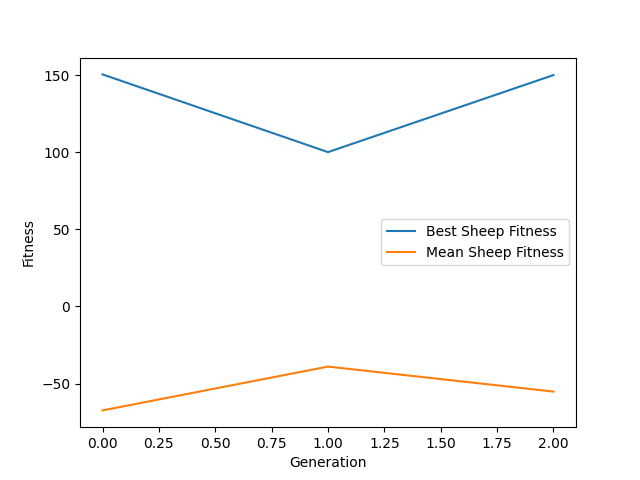
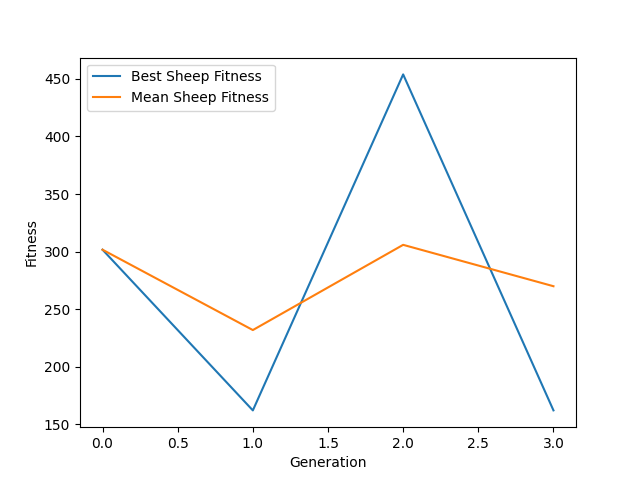
simulation edits
- config tweaks
- fitness function
- grass growth
- child spawn energy

diff --git a/src/wolf.py b/src/wolf.py
@@ -13,23 +13,36 @@ class Wolf(Entity):
         super().__init__(env, intial_position, sprite_manager.male_wolf if self.gender else sprite_manager.female_wolf, nn)
         self.type = Types.WOLF
         self.speed = FPS
+        self.sheep_eaten = 0
     
     def handle_collision(self, t: Types, g: int):
         if t == Types.SHEEP:
             self.env.sound_manager.play_enemy_collision()
             self.energy = 100.0
+            self.sheep_eaten += 1
         else:
             self.env.sound_manager.play_friend_collision()
-            if self.gender != g and self.energy >= (REPRODUCTION_ENERGY_REQUIREMENT * MAX_ENERGY):
+            if self.gender != g and self.energy >= (WOLF_REPRODUCTION_REQUIREMENT * MAX_ENERGY):
                 self.env.sound_manager.play_reproduce()
                 if self.gender == 0:  # Spawn from females
                     self.child_number += 1
-                    self.env.wolfs.append(Wolf(self.env, 
-                                                 self.env.sprite_manager, 
-                                                 v2(random() * WIDTH, random() * HEIGHT),
-                                                 NeuralNetwork())
-                    )
+                    child = Wolf(self.env, 
+                                self.env.sprite_manager, 
+                                v2(random() * WIDTH, random() * HEIGHT),
+                                NeuralNetwork())
+                    child.energy = CHILD_ENERGY
+                    self.env.wolfs.append(child)
                     self.env.wolf_history.append(self.env.wolfs[-1])
+    
+    def respawn(self):
+        self.is_alive = True
+        self.energy = MAX_ENERGY
+        self.survival_time = 0.0
+        self.child_number = 0  
+        self.sheep_eaten = 0
+        self.gender = 1 if random() <= WOLF_MALE_ODDS else 0
+        self.sprite = self.env.sprite_manager.male_wolf if self.gender else self.env.sprite_manager.female_wolf
+    
     
     def process(self, dt: float):
         self.move(dt)

diff --git a/src/config.py b/src/config.py
@@ -15,33 +15,37 @@ v2_0 = v2(0, 0)
 v2_1 = v2(1, 1)
 
 # Environment settings
-BG_COLOR = [6, 190, 48]
-TIME_BETWEEN_PREDICTION: float = 150.0
-ENERGY_EXPENDITURE_RATE: float = 15.0
+BG_COLOR = [6, 190, 48] 
+TIME_BETWEEN_PREDICTION: float = 100.0
+ENERGY_EXPENDITURE_RATE: float = 30.0
 MAX_ENERGY: float = 100.0
-GRASS_GROWTH_RATE: float = 0.3
+CHILD_ENERGY: float = MAX_ENERGY / 2
+GRASS_GROWTH_RATE: float = 0.1
 EATING_ENERGY_THRESHOLD: float = 0.2
-REPRODUCTION_ENERGY_REQUIREMENT: float = 0.7
+SHEEP_REPRODUCTION_REQUIREMENT: float = 0.6
+WOLF_REPRODUCTION_REQUIREMENT: float = 0.6
 SHEEP_MALE_ODDS: float = 0.5
 WOLF_MALE_ODDS: float = 0.5
 
 # Evolutionary algorithm settings
-SHEEP_POPULATION: int = 7
-WOLF_POPULATION: int = 5
+SHEEP_POPULATION: int = 25
+WOLF_POPULATION: int = 10
 SEARCH_RADIUS: float = 100
-REPRODUCTION_REWARD: float = 100.0
+REPRODUCTION_REWARD: float = 150.0
+PREDATORY_REWARD: float = 100.0
+# ENERGY_REWARD: float = 20.0
+SURVIVAL_REWARD: float = 30.0
 WANTED_SURVIVAL_TIME: float = 300.0
-SELECTED_ENTITY: int = 5
-CROSSOVER_RATE = 0.7
-MUTATION_RATE = 0.01
+SELECTED_ENTITY: int = 4
+CROSSOVER_RATE = 0.8
+MUTATION_RATE = 0.2
 MUTATION_SCALE = 0.1
-NUM_GENERATIONS = 10
-GENERATION_DURATION = 2 * WANTED_SURVIVAL_TIME
+NUM_GENERATIONS = 100
+GENERATION_DURATION = 500
 
 # In the Environment.spawn_entities(), if the below condition is not met it leads to an infinit loop !
 assert(SHEEP_POPULATION + WOLF_POPULATION <= (WIDTH // TILE_SIZE * HEIGHT // TILE_SIZE))
 assert(SEARCH_RADIUS <= WIDTH and SEARCH_RADIUS <= HEIGHT)
-assert(CROSSOVER_RATE + MUTATION_RATE <= 1)
 assert(NUM_GENERATIONS > 0)
 assert(SELECTED_ENTITY <= SHEEP_POPULATION and SELECTED_ENTITY <= WOLF_POPULATION)
 

diff --git a/src/sheep.py b/src/sheep.py
@@ -27,19 +27,26 @@ class Sheep(Entity):
             self.is_alive = False
         else:
             self.env.sound_manager.play_friend_collision()
-            if self.gender != g and self.energy >= (REPRODUCTION_ENERGY_REQUIREMENT * MAX_ENERGY):
+            if self.gender != g and self.energy >= (SHEEP_REPRODUCTION_REQUIREMENT * MAX_ENERGY):
                 self.env.sound_manager.play_reproduce()
                 if self.gender == 0:  # Spawn from females
                     self.child_number += 1
-                    self.env.sheeps.append(Sheep(self.env, 
-                                                 self.env.sprite_manager, 
-                                                 v2(random() * WIDTH, random() * HEIGHT),
-                                                 NeuralNetwork())
-                    )         
+                    child = Sheep(self.env, 
+                                self.env.sprite_manager, 
+                                v2(random() * WIDTH, random() * HEIGHT),
+                                NeuralNetwork())
+                    child.energy = CHILD_ENERGY
                     self.env.sheep_history.append(self.env.sheeps[-1])
     
+    def respawn(self):
+        self.is_alive = True
+        self.energy = MAX_ENERGY
+        self.survival_time = 0.0
+        self.child_number = 0  
+        self.gender = 1 if random() <= SHEEP_MALE_ODDS else 0
+        self.sprite = self.env.sprite_manager.male_sheep if self.gender else self.env.sprite_manager.female_sheep
+        
     def process(self, dt: float):
         self.move(dt)
         self.expend_energy(dt)
-        
         self.animate(dt)

diff --git a/src/evolutionary_algorithm.py b/src/evolutionary_algorithm.py
@@ -3,7 +3,7 @@ import numpy as np
 import sys
 
 from config import *
-from entity import Entity
+from entity import Entity, Types
 from sheep import Sheep
 from wolf import Wolf
 from enivroment import Environment
@@ -12,7 +12,8 @@ from training_data import *
 
 
 def fitness_function(e: Entity):
-    return (e.survival_time - WANTED_SURVIVAL_TIME) * (e.energy / MAX_ENERGY) + e.child_number * REPRODUCTION_REWARD
+    predatory_bonus = e.sheep_eaten if e.type == Types.WOLF else 0.0
+    return e.child_number * REPRODUCTION_REWARD + predatory_bonus * PREDATORY_REWARD + (e.survival_time / GENERATION_DURATION) * SURVIVAL_REWARD
 
 def select_parents(population, num_parents):
     population.sort(key=fitness_function, reverse=True)
@@ -67,12 +68,12 @@ def train_population():
         sheep_fitnesses = [fitness_function(s) for s in sheeps]
         best_current_sheep_fitness = max(sheep_fitnesses)
         sheep_fitness_history.append(max(sheep_fitnesses))
-        sheep_mean_fitness_history.append(np.mean(sheep_fitnesses))
+        sheep_mean_fitness_history.append(np.mean(sheep_fitness_history))
         
         wolf_fitnesses = [fitness_function(w) for w in wolfs]
         best_current_wolf_fitness = max(wolf_fitnesses)
         wolf_fitness_history.append(max(wolf_fitnesses))
-        wolf_mean_fitness_history.append(np.mean(wolf_fitnesses))
+        wolf_mean_fitness_history.append(np.mean(wolf_fitness_history))
         
         if best_current_sheep_fitness > best_sheep_fitness:
             best_sheep_fitness = best_current_sheep_fitness

diff --git a/src/entity.py b/src/entity.py
@@ -120,12 +120,6 @@ class Entity(ABC):
             rotation_angle = self.walk_rotation_amount * math.sin(self.animation_timer * self.walk_animation_speed)
             self.sprite = pg.transform.rotate(self.original_sprite, rotation_angle)
             self.rect = self.sprite.get_rect(center=self.rect.center)
-              
-    def respawn(self):
-        self.is_alive = True
-        self.energy = MAX_ENERGY
-        self.survival_time = 0.0
-        self.child_number = 0  
             
     def save(self, path: str):
         # save neural network weights

diff --git a/src/grass_map.py b/src/grass_map.py
@@ -31,5 +31,9 @@ class GrassMap:
         return self.grass_state[x][y] 
     
     def eat_at(self, x, y):
-        self.set_state(x, y, 0.0)
+        # Eats for grass blocks around the sheep in + shape
+        for dx in range(-1, 2):
+            for dy in range(-1, 2):
+                if 0 <= x + dx < self.dimenions[0] and 0 <= y + dy < self.dimenions[1]:
+                    self.grass_state[x + dx][y + dy] = 0.0
         

diff --git a/src/main.py b/src/main.py
@@ -29,7 +29,7 @@ def index():
 
 
 if __name__ == '__main__':
-    run_without_flask = False
+    run_without_flask = True
 
     if run_without_flask:
         train_population()
